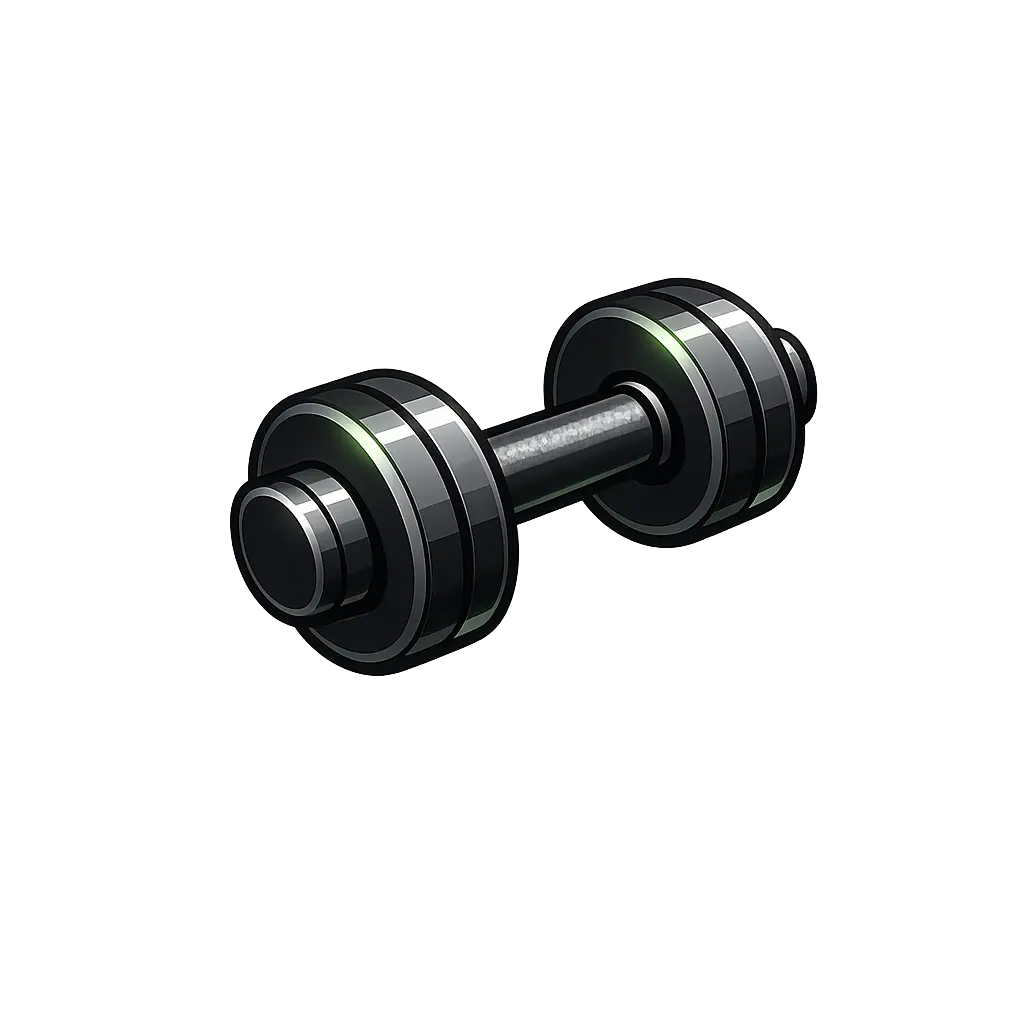
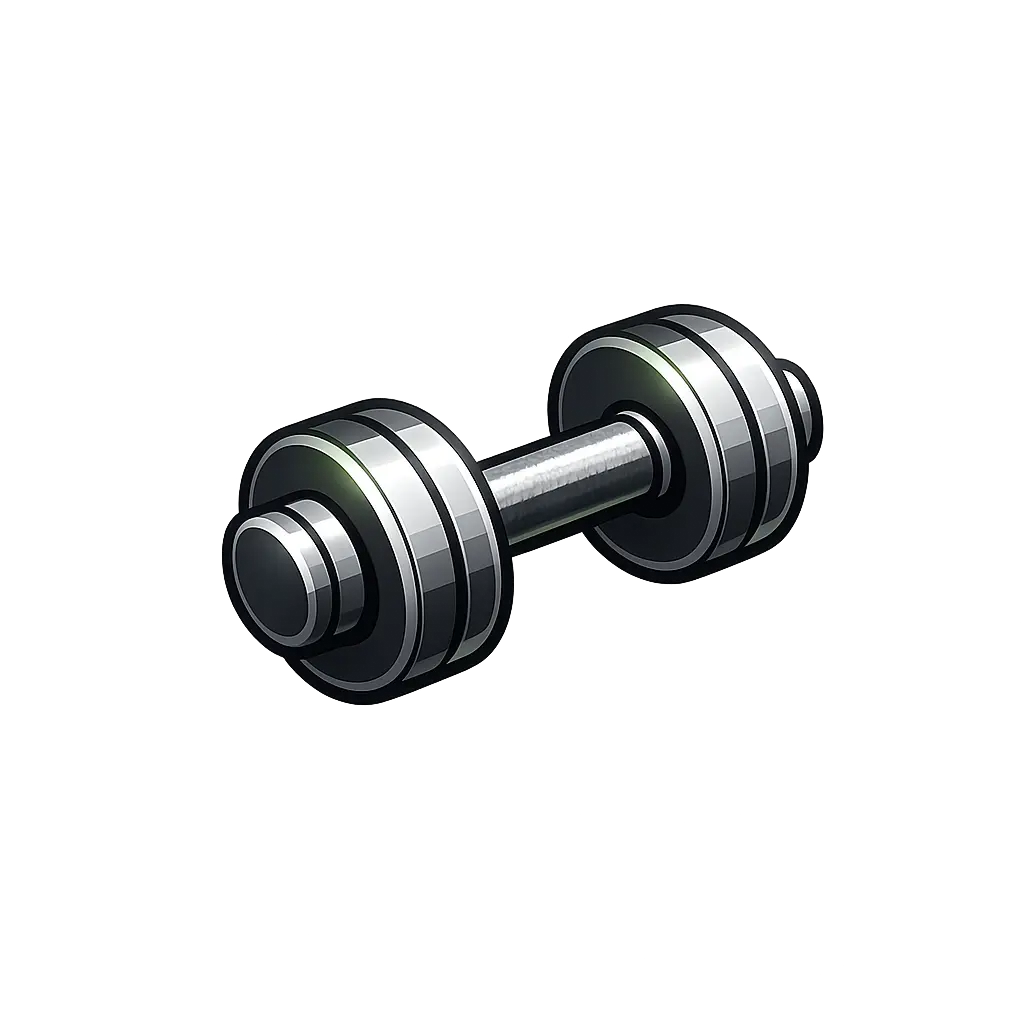
Update equipment images: increase Dumbbell size and add Cable Crossover Machine image

Changed region(s): [[0.2188, 0.25, 0.8125, 0.6875]]

diff --git a/app/(protected)/equipment-selection/_components/equipments.tsx b/app/(protected)/equipment-selection/_components/equipments.tsx
@@ -89,8 +89,8 @@ export function Equipments({ query, isLoading, filteredEquipments }: Props) {
                     <Image
                       src="/equipments/Dumbbell.webp"
                       alt={item.name}
-                      width={24}
-                      height={24}
+                      width={64}
+                      height={64}
                       className="object-contain"
                     />
                   </div>
